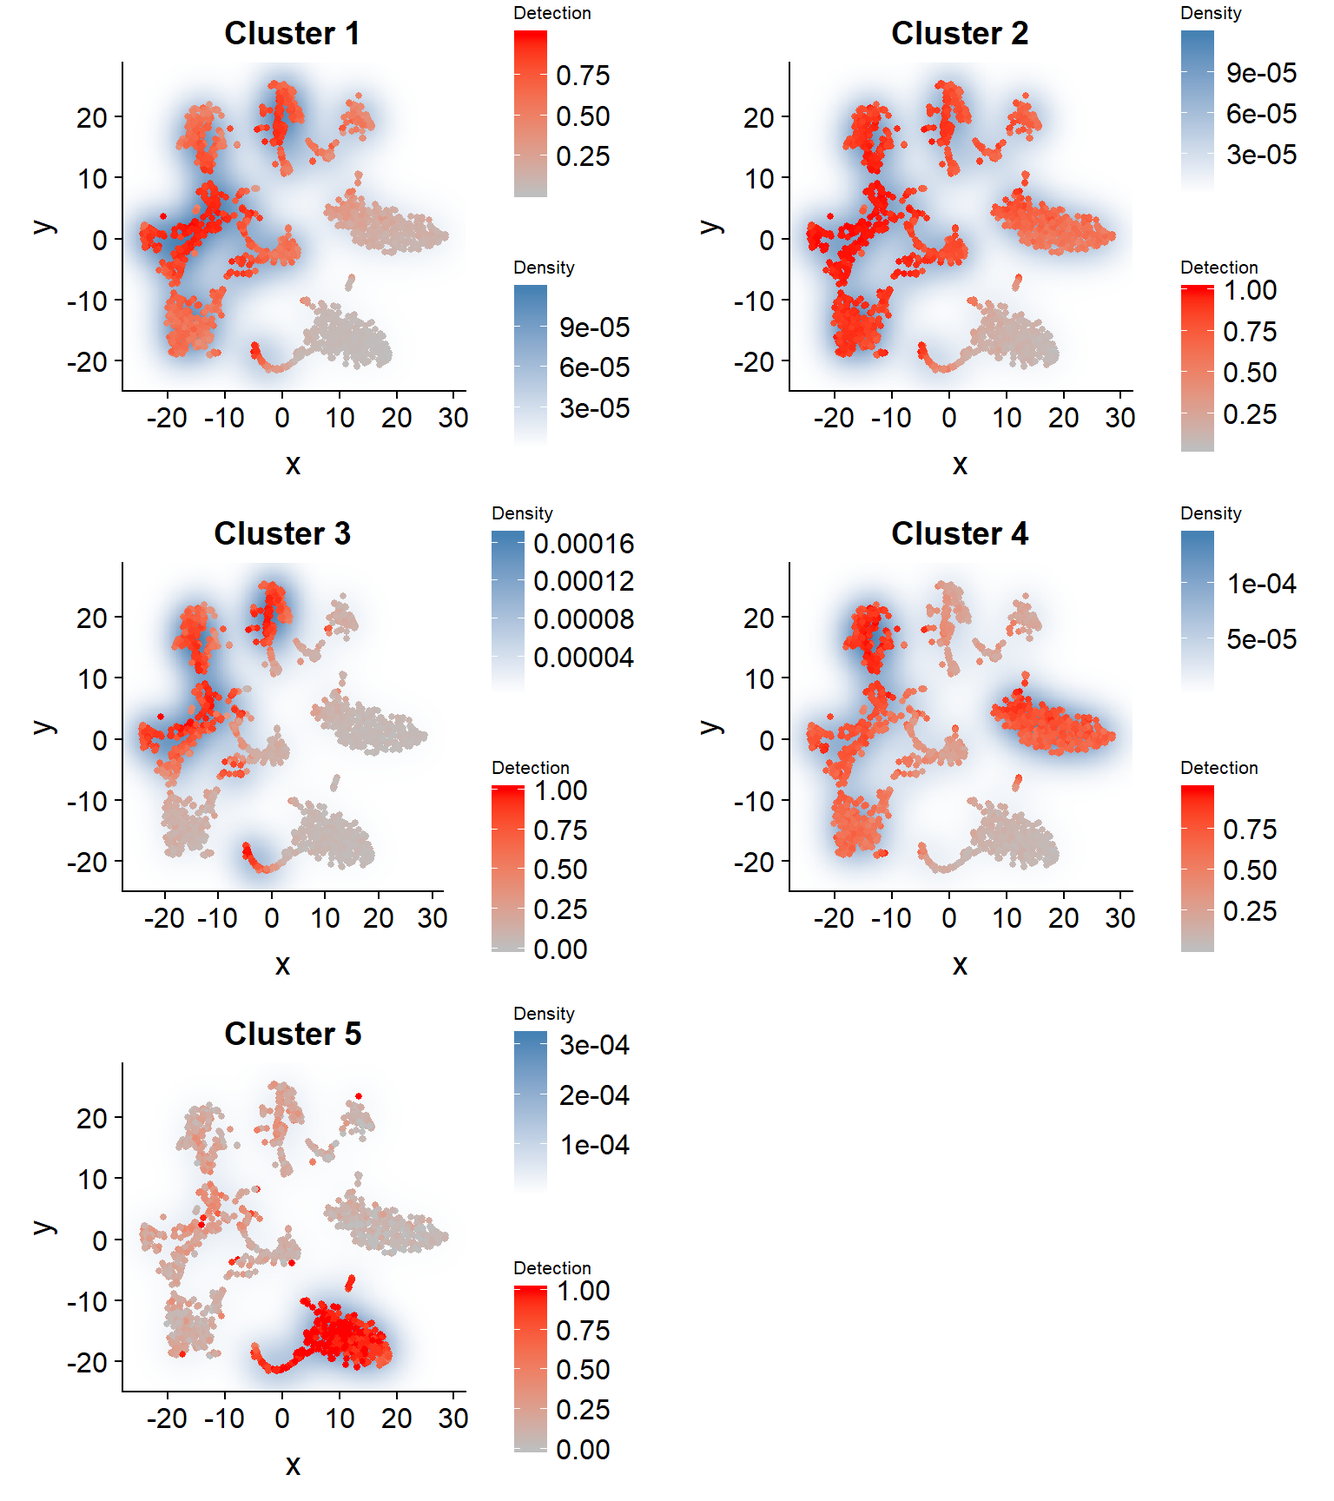
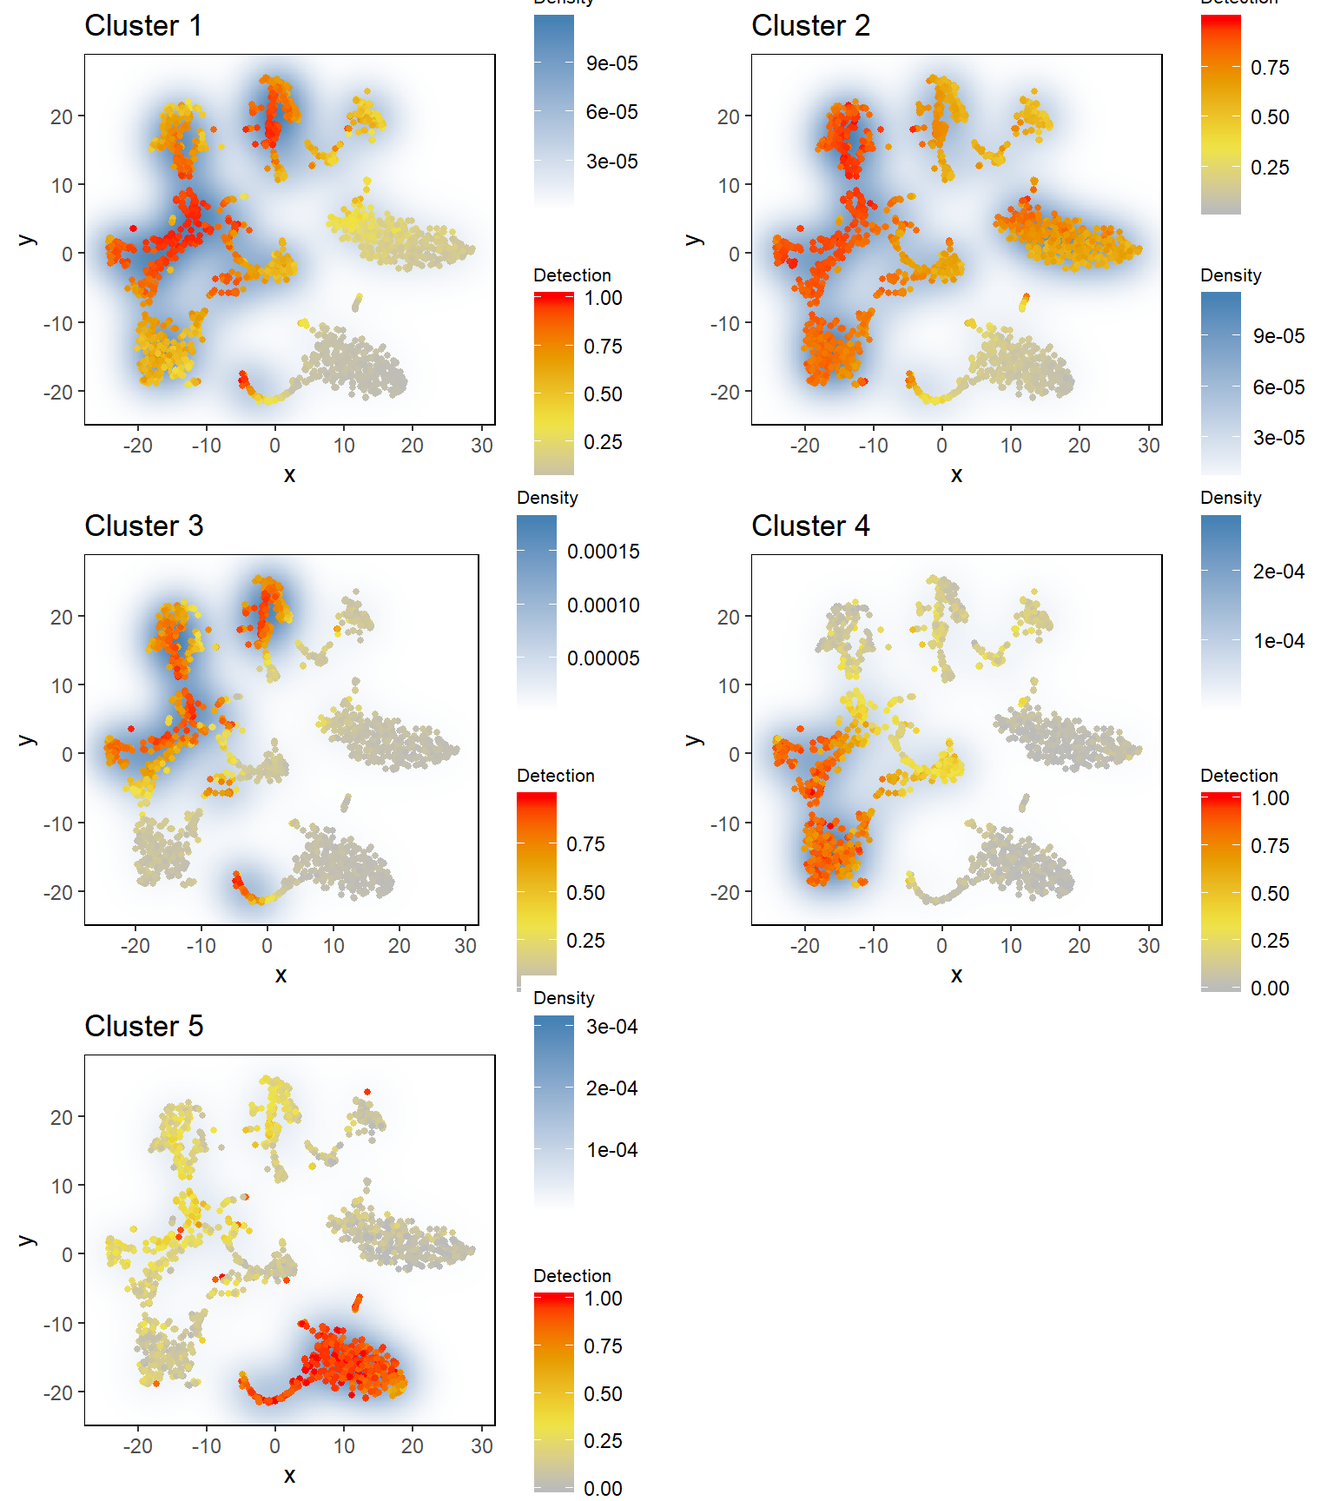
Update vignettes for new bandwidth and color code

diff --git a/docs/articles/a02_example_tsne2D_default.html b/docs/articles/a02_example_tsne2D_default.html
@@ -86,7 +86,7 @@
       <h1>Application of singleCellHaystack on 2D t-SNE coordinates</h1>
                         <h4 class="author">Alexis Vandenbon</h4>
             
-            <h4 class="date">2019-06-17</h4>
+            <h4 class="date">2019-08-01</h4>
       
       
       <div class="hidden name"><code>a02_example_tsne2D_default.Rmd</code></div>
@@ -127,10 +127,10 @@
 <p>First, load the package, and set a random seed to ensure replicability.</p>
 <div class="sourceCode"><pre class="sourceCode r"><code class="sourceCode r"><span class="kw"><a href="https://www.rdocumentation.org/packages/base/topics/library">library</a></span>(singleCellHaystack)
 <span class="co">#&gt; </span>
-<span class="co">#&gt; Attaching package: 'singleCellHaystack'</span>
-<span class="co">#&gt; The following objects are masked _by_ '.GlobalEnv':</span>
+<span class="co">#&gt;  次のパッケージを付け加えます: 'singleCellHaystack'</span>
+<span class="co">#&gt;  以下のオブジェクトは '.GlobalEnv' によってマスクされています: </span>
 <span class="co">#&gt; </span>
-<span class="co">#&gt;     dat.expression, dat.tsne</span>
+<span class="co">#&gt;      dat.expression, dat.tsne</span>
 <span class="kw"><a href="https://www.rdocumentation.org/packages/base/topics/Random">set.seed</a></span>(<span class="dv">1</span>)</code></pre></div>
 <p>Next, run <code>haystack</code> on the t-SNE coordinates. These are 2D coordinates, so we set ‘method’ to ‘2D’. We also give the detection values as input to ‘detection’. This example dataset is relatively small, containing 1,981 cells, so running ‘haystack’ should take just 1 to 3 minutes to finish.</p>
 <div class="sourceCode"><pre class="sourceCode r"><code class="sourceCode r">res.tsne &lt;-<span class="st"> </span><span class="kw"><a href="../reference/haystack.html">haystack</a></span>(<span class="dt">x =</span> dat.tsne, <span class="dt">detection =</span> dat.detection, <span class="dt">method =</span> <span class="st">"2D"</span>)
@@ -172,19 +172,19 @@
 <span class="co">#&gt; </span><span class="al">###</span><span class="co"> ... 200 values out of 200 done</span>
 <span class="co">#&gt; </span><span class="al">###</span><span class="co"> estimating p-values...</span>
 <span class="co">#&gt; </span><span class="al">###</span><span class="co"> returning result...</span></code></pre></div>
-<p>Let’s have a look at the most biased genes. The most strongly biased gene is Alox5ap. We can plot the expression an detection of this gene using the <code>plot_gene_haystack</code> function. From the plots we can see that Alox5ap is not detected in the upper right and lower right group of cells.</p>
+<p>Let’s have a look at the most biased genes. The most strongly biased gene is Clec4a2. We can plot the expression an detection of this gene using the <code>plot_gene_haystack</code> function. From the plots we can see that Clec4a2 is not detected in the upper right and lower right group of cells.</p>
 <div class="sourceCode"><pre class="sourceCode r"><code class="sourceCode r"><span class="kw"><a href="../reference/show_result_haystack.html">show_result_haystack</a></span>(<span class="dt">res.haystack =</span> res.tsne, <span class="dt">n =</span> <span class="dv">5</span>)
 <span class="co">#&gt;              D_KL log.p.vals T.counts</span>
-<span class="co">#&gt; Alox5ap 1.0284127  -68.18293     1354</span>
-<span class="co">#&gt; Lyz1    0.8561399  -67.30395     1183</span>
-<span class="co">#&gt; Clec4a2 0.7561418  -66.62938      947</span>
-<span class="co">#&gt; Cybb    0.8090982  -65.94909     1172</span>
-<span class="co">#&gt; S100a10 0.7155384  -64.46251     1094</span>
+<span class="co">#&gt; Clec4a2 0.7561418  -65.39972      947</span>
+<span class="co">#&gt; Lyz1    0.8561399  -64.83459     1183</span>
+<span class="co">#&gt; Alox5ap 1.0284127  -64.70018     1354</span>
+<span class="co">#&gt; Cybb    0.8090982  -63.60491     1172</span>
+<span class="co">#&gt; S100a10 0.7155384  -62.71029     1094</span>
 <span class="co"># plotting detection of this gene</span>
-<span class="kw"><a href="../reference/plot_gene_haystack.html">plot_gene_haystack</a></span>(<span class="dt">x =</span> dat.tsne, <span class="dt">gene =</span> <span class="st">"Alox5ap"</span>, <span class="dt">expression =</span> dat.detection)</code></pre></div>
+<span class="kw"><a href="../reference/plot_gene_haystack.html">plot_gene_haystack</a></span>(<span class="dt">x =</span> dat.tsne, <span class="dt">gene =</span> <span class="st">"Clec4a2"</span>, <span class="dt">expression =</span> dat.detection)</code></pre></div>
 <p><img src="a02_example_tsne2D_default_files/figure-html/example4-1.png" width="576" style="display: block; margin: auto;"></p>
 <div class="sourceCode"><pre class="sourceCode r"><code class="sourceCode r"><span class="co"># plotting log expression of this gene</span>
-<span class="kw"><a href="../reference/plot_gene_haystack.html">plot_gene_haystack</a></span>(<span class="dt">x =</span> dat.tsne, <span class="dt">gene =</span> <span class="st">"Alox5ap"</span>, <span class="dt">expression =</span> <span class="kw"><a href="https://www.rdocumentation.org/packages/base/topics/Log">log10</a></span>(dat.expression)) </code></pre></div>
+<span class="kw"><a href="../reference/plot_gene_haystack.html">plot_gene_haystack</a></span>(<span class="dt">x =</span> dat.tsne, <span class="dt">gene =</span> <span class="st">"Clec4a2"</span>, <span class="dt">expression =</span> <span class="kw"><a href="https://www.rdocumentation.org/packages/base/topics/Log">log10</a></span>(dat.expression)) </code></pre></div>
 <p><img src="a02_example_tsne2D_default_files/figure-html/example4-2.png" width="576" style="display: block; margin: auto;"></p>
 <p>Next, let’s take the top 1000 biased genes, and cluster them by their expression pattern in the 2D t-SNE coordinates. Here we use <code>hclust_haystack</code>, which uses hierarchical clustering. Alternatively, we could use <code>kmeans_haystack</code> for k-means clustering.</p>
 <div class="sourceCode"><pre class="sourceCode r"><code class="sourceCode r"><span class="co"># get the top 1000 biased genes in the result</span>
@@ -197,8 +197,8 @@ res.hc &lt;-<span class="st"> </span><span class="kw"><a href="../reference/hclu
 <span class="kw"><a href="https://www.rdocumentation.org/packages/base/topics/table">table</a></span>(res.hc.clusters)
 <span class="co">#&gt; res.hc.clusters</span>
 <span class="co">#&gt;   1   2   3   4   5 </span>
-<span class="co">#&gt; 454 289 104 133  20</span></code></pre></div>
-<p>Cluster 1 contains 454 genes, and the smallest cluster (cluster 5) contains just 20 genes.</p>
+<span class="co">#&gt; 434 384 112  46  24</span></code></pre></div>
+<p>Cluster 1 contains 434 genes, and the smallest cluster (cluster 5) contains just 24 genes.</p>
 <p>Let’s run through the 5 clusters and plot their averaged detection pattern using <code>plot_gene_set_haystack</code>, which is similar to <code>plot_gene_haystack</code> but uses a set of genes as input instead of just 1 gene.</p>
 <div class="sourceCode"><pre class="sourceCode r"><code class="sourceCode r">pl &lt;-<span class="st"> </span><span class="kw"><a href="https://www.rdocumentation.org/packages/base/topics/lapply">lapply</a></span>(<span class="dv">1</span><span class="op">:</span><span class="dv">5</span>, <span class="cf">function</span>(cluster) {
   gene.set &lt;-<span class="st"> </span><span class="kw"><a href="https://www.rdocumentation.org/packages/base/topics/names">names</a></span>(res.hc.clusters)[res.hc.clusters<span class="op">==</span>cluster]
@@ -208,10 +208,10 @@ res.hc &lt;-<span class="st"> </span><span class="kw"><a href="../reference/hclu
 })
 <span class="kw">plot_grid</span>(<span class="dt">plotlist =</span> pl, <span class="dt">ncol =</span> <span class="dv">2</span>)</code></pre></div>
 <p><img src="a02_example_tsne2D_default_files/figure-html/example7-1.png" width="768" style="display: block; margin: auto;"></p>
-<div class="sourceCode"><pre class="sourceCode r"><code class="sourceCode r">res.hc.clusters[<span class="st">"Alox5ap"</span>] <span class="co"># the most biased gene is in cluster 4</span>
-<span class="co">#&gt; Alox5ap </span>
-<span class="co">#&gt;       4</span></code></pre></div>
-<p>The most biased genes, Alox5ap, was clustered into cluster 4. Comparing its expression pattern (see above) with that of each cluster, we can indeed see that it fits most closely with that of cluster 4. The pattern of cluster 5 (containing 20 genes) is rather different from all other clusters.</p>
+<div class="sourceCode"><pre class="sourceCode r"><code class="sourceCode r">res.hc.clusters[<span class="st">"Clec4a2"</span>] <span class="co"># the most biased gene is in cluster 2</span>
+<span class="co">#&gt; Clec4a2 </span>
+<span class="co">#&gt;       2</span></code></pre></div>
+<p>The most biased genes, Clec4a2, was clustered into cluster 2. Comparing its expression pattern (see above) with that of each cluster, we can indeed see that it fits most closely with that of cluster 2. The pattern of cluster 5 (containing 24 genes) is rather different from all other clusters.</p>
 </div>
   </div>
 

diff --git a/docs/articles/a01_introduction.html b/docs/articles/a01_introduction.html
@@ -86,7 +86,7 @@
       <h1>Introduction to singleCellHaystack</h1>
                         <h4 class="author">Alexis Vandenbon</h4>
             
-            <h4 class="date">2019-06-17</h4>
+            <h4 class="date">2019-08-01</h4>
       
       
       <div class="hidden name"><code>a01_introduction.Rmd</code></div>
@@ -99,7 +99,7 @@
 <h1 class="hasAnchor">
 <a href="#singlecellhaystack" class="anchor"></a>singleCellHaystack</h1>
 <p><code>singleCellHaystack</code> is a package for finding surprising needles (=genes) in haystacks (=single cell transcriptome data). Single-cell RNA-seq (scRNA-seq) data is often converted to fewer dimensions using Principal Component Analysis (PCA) and represented in 2-dimentional plots (e.g. t-SNE or UMAP plots). <code>singleCellHaystack</code> can be used for finding genes that are expressed in subsets of cells that are non-randomly distributed in these multi-dimensional spaces or 2D representations.</p>
-<p>Our manuscript about <code>singleCellHaystack</code> is now availabe on <a href="https://www.biorxiv.org/content/10.1101/557967v1">bioRxiv</a>.</p>
+<p>Our manuscript about <code>singleCellHaystack</code> is now availabe on <a href="https://www.biorxiv.org/content/10.1101/557967v3">bioRxiv</a>.</p>
 <div id="installation" class="section level2">
 <h2 class="hasAnchor">
 <a href="#installation" class="anchor"></a>Installation</h2>
@@ -146,16 +146,16 @@ res &lt;-<span class="st"> </span><span class="kw"><a href="../reference/haystac
 <div class="sourceCode"><pre class="sourceCode r"><code class="sourceCode r"><span class="co"># show top 10 "surprising" genes</span>
 <span class="kw"><a href="../reference/show_result_haystack.html">show_result_haystack</a></span>(<span class="dt">res.haystack =</span> res, <span class="dt">n=</span><span class="dv">10</span>)
 <span class="co">#&gt;              D_KL log.p.vals T.counts</span>
-<span class="co">#&gt; gene_242 1.360661  -21.57548       96</span>
-<span class="co">#&gt; gene_275 1.345251  -20.97236       95</span>
-<span class="co">#&gt; gene_317 1.386194  -20.94379       94</span>
-<span class="co">#&gt; gene_497 1.599646  -20.46697       86</span>
-<span class="co">#&gt; gene_79  1.929800  -20.43333       68</span>
-<span class="co">#&gt; gene_244 1.238011  -19.91416       95</span>
-<span class="co">#&gt; gene_351 1.408946  -19.57361       89</span>
-<span class="co">#&gt; gene_339 1.414814  -19.17568       87</span>
-<span class="co">#&gt; gene_62  1.519993  -19.06512       81</span>
-<span class="co">#&gt; gene_137 1.349994  -19.05803       89</span>
+<span class="co">#&gt; gene_497 1.599646  -22.85430       86</span>
+<span class="co">#&gt; gene_79  1.929800  -22.24037       68</span>
+<span class="co">#&gt; gene_62  1.519993  -21.98972       81</span>
+<span class="co">#&gt; gene_61  1.470475  -21.42928       80</span>
+<span class="co">#&gt; gene_339 1.414814  -21.17211       87</span>
+<span class="co">#&gt; gene_351 1.408946  -20.92487       89</span>
+<span class="co">#&gt; gene_137 1.349994  -20.38122       89</span>
+<span class="co">#&gt; gene_444 1.435882  -20.22446       75</span>
+<span class="co">#&gt; gene_317 1.386194  -19.68530       94</span>
+<span class="co">#&gt; gene_313 1.294544  -19.47089       78</span>
 
 <span class="co"># alternatively: use a p-value threshold</span>
 <span class="co">#show_result_haystack(res.haystack = res, p.value.threshold = 1e-10)</span></code></pre></div>
@@ -183,10 +183,10 @@ km.clusters &lt;-<span class="st"> </span>km<span class="op">$</span>cluster
 <span class="co"># alternatively: hierarchical clustering</span>
 <span class="co">#hc &lt;- hclust_haystack(dat.tsne, detection=dat.detection, genes=gene.subset)</span>
 <span class="co">#hc.clusters &lt;- cutree(hc,k = 5)</span></code></pre></div>
-<p>… and visualize the average pattern of the genes in cluster 1 (for example).</p>
+<p>… and visualize the average pattern of the genes in cluster 3 (for example).</p>
 <div class="sourceCode"><pre class="sourceCode r"><code class="sourceCode r"><span class="co"># visualize cluster distributions</span>
 <span class="kw"><a href="../reference/plot_gene_set_haystack.html">plot_gene_set_haystack</a></span>(dat.tsne, <span class="dt">detection =</span> dat.detection, 
-                        <span class="dt">genes=</span><span class="kw"><a href="https://www.rdocumentation.org/packages/base/topics/names">names</a></span>(km.clusters[km.clusters<span class="op">==</span><span class="dv">1</span>]), <span class="dt">point.size=</span><span class="dv">2</span>)</code></pre></div>
+                        <span class="dt">genes=</span><span class="kw"><a href="https://www.rdocumentation.org/packages/base/topics/names">names</a></span>(km.clusters[km.clusters<span class="op">==</span><span class="dv">3</span>]), <span class="dt">point.size=</span><span class="dv">2</span>)</code></pre></div>
 <p><img src="a01_introduction_files/figure-html/example5-1.png" width="576" style="display: block; margin: auto;"></p>
 </div>
 </div>

diff --git a/docs/index.html b/docs/index.html
@@ -96,7 +96,7 @@
 <div id="singlecellhaystack" class="section level1">
 
 <p><code>singleCellHaystack</code> is a package for finding surprising needles (=genes) in haystacks (=single cell transcriptome data). Single-cell RNA-seq (scRNA-seq) data is often converted to fewer dimensions using Principal Component Analysis (PCA) and represented in 2-dimentional plots (e.g. t-SNE or UMAP plots). <code>singleCellHaystack</code> can be used for finding genes that are expressed in subsets of cells that are non-randomly distributed in these multi-dimensional spaces or 2D representations.</p>
-<p>Our manuscript about <code>singleCellHaystack</code> is now availabe on <a href="https://www.biorxiv.org/content/10.1101/557967v1">bioRxiv</a>.</p>
+<p>Our manuscript about <code>singleCellHaystack</code> is now availabe on <a href="https://www.biorxiv.org/content/10.1101/557967v3">bioRxiv</a>.</p>
 <div id="installation" class="section level2">
 <h2 class="hasAnchor">
 <a href="#installation" class="anchor"></a>Installation</h2>
@@ -143,16 +143,16 @@ res &lt;-<span class="st"> </span><span class="kw"><a href="reference/haystack.h
 <div class="sourceCode"><pre class="sourceCode r"><code class="sourceCode r"><span class="co"># show top 10 "surprising" genes</span>
 <span class="kw"><a href="reference/show_result_haystack.html">show_result_haystack</a></span>(<span class="dt">res.haystack =</span> res, <span class="dt">n=</span><span class="dv">10</span>)
 <span class="co">#&gt;              D_KL log.p.vals T.counts</span>
-<span class="co">#&gt; gene_242 1.360661  -21.57548       96</span>
-<span class="co">#&gt; gene_275 1.345251  -20.97236       95</span>
-<span class="co">#&gt; gene_317 1.386194  -20.94379       94</span>
-<span class="co">#&gt; gene_497 1.599646  -20.46697       86</span>
-<span class="co">#&gt; gene_79  1.929800  -20.43333       68</span>
-<span class="co">#&gt; gene_244 1.238011  -19.91416       95</span>
-<span class="co">#&gt; gene_351 1.408946  -19.57361       89</span>
-<span class="co">#&gt; gene_339 1.414814  -19.17568       87</span>
-<span class="co">#&gt; gene_62  1.519993  -19.06512       81</span>
-<span class="co">#&gt; gene_137 1.349994  -19.05803       89</span>
+<span class="co">#&gt; gene_497 1.599646  -22.85430       86</span>
+<span class="co">#&gt; gene_79  1.929800  -22.24037       68</span>
+<span class="co">#&gt; gene_62  1.519993  -21.98972       81</span>
+<span class="co">#&gt; gene_61  1.470475  -21.42928       80</span>
+<span class="co">#&gt; gene_339 1.414814  -21.17211       87</span>
+<span class="co">#&gt; gene_351 1.408946  -20.92487       89</span>
+<span class="co">#&gt; gene_137 1.349994  -20.38122       89</span>
+<span class="co">#&gt; gene_444 1.435882  -20.22446       75</span>
+<span class="co">#&gt; gene_317 1.386194  -19.68530       94</span>
+<span class="co">#&gt; gene_313 1.294544  -19.47089       78</span>
 
 <span class="co"># alternatively: use a p-value threshold</span>
 <span class="co">#show_result_haystack(res.haystack = res, p.value.threshold = 1e-10)</span></code></pre></div>
@@ -186,7 +186,7 @@ km.clusters &lt;-<span class="st"> </span>km<span class="op">$</span>cluster
     <div class="links">
 <h2>Links</h2>
 <ul class="list-unstyled">
-<li>Learn more at <br><a href="https://www.biorxiv.org/content/10.1101/557967v1">https://www.biorxiv.org/content/10.1101/557967v1</a>
+<li>Learn more at <br><a href="https://www.biorxiv.org/content/10.1101/557967v3">https://www.biorxiv.org/content/10.1101/557967v3</a>
 </li>
 </ul>
 </div>

diff --git a/docs/articles/a03_example_tsne2D_advanced.html b/docs/articles/a03_example_tsne2D_advanced.html
@@ -86,7 +86,7 @@
       <h1>Application of ‘advanced’ mode on 2D t-SNE coordinates</h1>
                         <h4 class="author">Alexis Vandenbon</h4>
             
-            <h4 class="date">2019-06-17</h4>
+            <h4 class="date">2019-08-01</h4>
       
       
       <div class="hidden name"><code>a03_example_tsne2D_advanced.Rmd</code></div>
@@ -135,10 +135,10 @@
 <p>First, load the package, and set a random seed to ensure replicability.</p>
 <div class="sourceCode"><pre class="sourceCode r"><code class="sourceCode r"><span class="kw"><a href="https://www.rdocumentation.org/packages/base/topics/library">library</a></span>(singleCellHaystack)
 <span class="co">#&gt; </span>
-<span class="co">#&gt; Attaching package: 'singleCellHaystack'</span>
-<span class="co">#&gt; The following objects are masked _by_ '.GlobalEnv':</span>
+<span class="co">#&gt;  次のパッケージを付け加えます: 'singleCellHaystack'</span>
+<span class="co">#&gt;  以下のオブジェクトは '.GlobalEnv' によってマスクされています: </span>
 <span class="co">#&gt; </span>
-<span class="co">#&gt;     dat.expression, dat.tsne</span>
+<span class="co">#&gt;      dat.expression, dat.tsne</span>
 <span class="kw"><a href="https://www.rdocumentation.org/packages/base/topics/Random">set.seed</a></span>(<span class="dv">1</span>)</code></pre></div>
 <p>Next, run <code>haystack</code> on the t-SNE coordinates. These are 2D coordinates, so we set ‘method’ to ‘2D’. We also give the detection values as input to ‘detection’. <code>use.advanced.sampling</code> is set to the vector of detected genes per cell, <code>general.detection</code>. By doing this, <code>haystack</code> will calculate cell distributions and perform randomizations taking into account the general detection levels.</p>
 <div class="sourceCode"><pre class="sourceCode r"><code class="sourceCode r">res.tsne.adv &lt;-<span class="st"> </span><span class="kw"><a href="../reference/haystack.html">haystack</a></span>(<span class="dt">x =</span> dat.tsne, <span class="dt">detection =</span> dat.detection, <span class="dt">use.advanced.sampling =</span> general.detection, <span class="dt">method =</span> <span class="st">"2D"</span>)

diff --git a/docs/reference/hclust_haystack_highD.html b/docs/reference/hclust_haystack_highD.html
@@ -129,7 +129,7 @@
     </div>
 
     <pre class="usage"><span class='fu'>hclust_haystack_highD</span>(<span class='no'>x</span>, <span class='no'>detection</span>, <span class='no'>genes</span>, <span class='kw'>method</span> <span class='kw'>=</span> <span class='st'>"ward.D"</span>,
-  <span class='kw'>grid.coordinates</span> <span class='kw'>=</span> <span class='kw'>NULL</span>)</pre>
+  <span class='kw'>grid.coordinates</span> <span class='kw'>=</span> <span class='kw'>NULL</span>, <span class='kw'>scale</span> <span class='kw'>=</span> <span class='fl'>TRUE</span>)</pre>
     
     <h2 class="hasAnchor" id="arguments"><a class="anchor" href="#arguments"></a>Arguments</h2>
     <table class="ref-arguments">

diff --git a/docs/reference/kmeans_haystack_highD.html b/docs/reference/kmeans_haystack_highD.html
@@ -129,7 +129,7 @@
     </div>
 
     <pre class="usage"><span class='fu'>kmeans_haystack_highD</span>(<span class='no'>x</span>, <span class='no'>detection</span>, <span class='no'>genes</span>, <span class='kw'>grid.coordinates</span> <span class='kw'>=</span> <span class='kw'>NULL</span>, <span class='no'>k</span>,
-  <span class='no'>...</span>)</pre>
+  <span class='kw'>scale</span> <span class='kw'>=</span> <span class='fl'>TRUE</span>, <span class='no'>...</span>)</pre>
     
     <h2 class="hasAnchor" id="arguments"><a class="anchor" href="#arguments"></a>Arguments</h2>
     <table class="ref-arguments">
